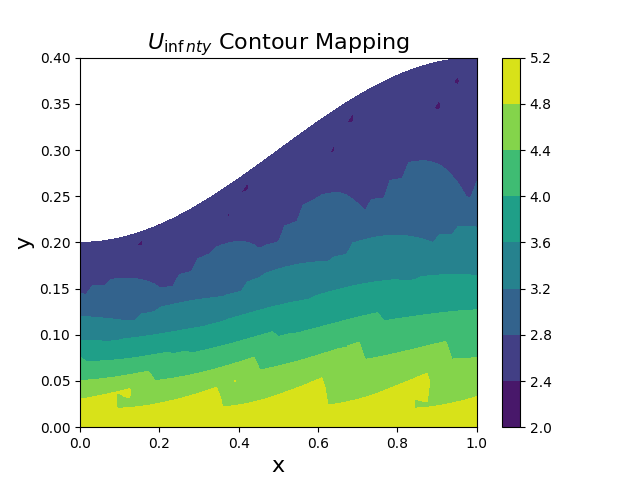
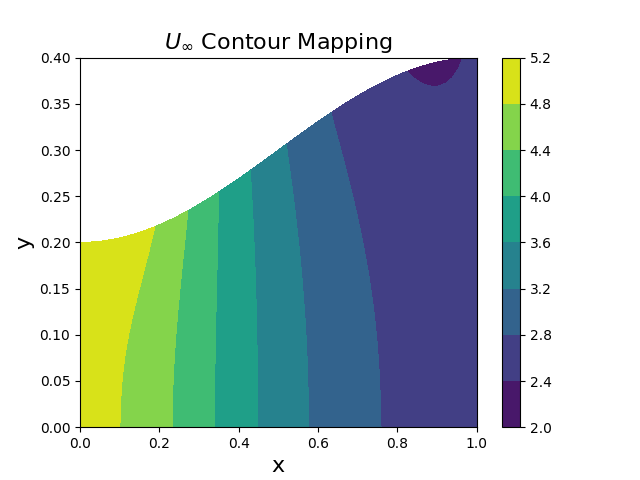
Need to do CD

Changed region(s): [[0.125, 0.2188, 0.75, 0.9062], [0.2188, 0.0625, 0.7188, 0.1875]]

diff --git a/Project1/Project1.py b/Project1/Project1.py
@@ -5,10 +5,41 @@ import math as mp
 import matplotlib.pyplot as plt
 
 def main():
-    N = 2
-    Psi = streamSolver(N)
-    xField, yField, infField = velocityFieldGenerator(Psi, N)
-    contourPlotter(Psi, xField, yField, infField, N)
+    N = [0, 1, 2, 5]
+    Psi = []
+    xField = []
+    yField = []
+    uinfField = []
+    pressCoeff = []
+    tangentVel = []
+    dragCoeff = []
+
+    for i in range(len(N)): 
+        psiTemp = streamSolver(N[i])
+        xFieldTemp, yFieldTemp, uinfFieldTemp = velocityFieldGenerator(psiTemp, N[i])
+        pTemp, tTemp = pressureCoeff(xFieldTemp, yFieldTemp, N[i])
+        dragCoeffTemp = wallDragCoeff(pTemp, N[i])
+
+        # Pull them back out
+        Psi.append(psiTemp)
+        xField.append(xFieldTemp)
+        yField.append(yFieldTemp)
+        uinfField.append(uinfFieldTemp)
+        pressCoeff.append(pTemp)
+        tangentVel.append(tTemp)
+        dragCoeff.append(dragCoeffTemp)
+
+    
+    x = [[np.linspace(0, 1, 17)],[np.linspace(0, 1, 33)],[np.linspace(0, 1, 65)], [np.linspace(0, 1, 513)]]
+    figure = plt.figure()
+    plt.plot(np.transpose(x[0]), tangentVel[0])
+    plt.plot(np.transpose(x[1]), tangentVel[1])
+    plt.plot(np.transpose(x[2]), tangentVel[2])
+    plt.plot(np.transpose(x[3]), tangentVel[3])
+    plt.xlabel('x', fontsize=16)
+    plt.ylabel(r'$u_w$', fontsize=16)
+    plt.title(r'Tangential Wall Velocity ($u_w$)', fontsize=16)
+    plt.savefig('Number3.png')
 
 def streamSolver(ref_index=0):
     """Sets up and solves the stream function system Ax = b
@@ -162,12 +193,13 @@ def velocityFieldGenerator(Psi, ref_index=0):
     dxi = 1 / N / 4
 
     # Our 3 velocity fields
-    xVelField = np.zeros((Neta, Nxi))
-    yVelField = np.zeros((Neta, Nxi))
-    uinfVelField = np.zeros((Neta, Nxi))
+    xVelField = np.zeros((Nxi, Neta))
+    yVelField = np.zeros((Nxi, Neta))
+    uinfVelField = np.zeros((Nxi, Neta))
 
     Psi = np.reshape(Psi, (Nxi, Neta), order='F')
 
+    # x-Velocity Field (only one we actually care about)
     for iY in range(Neta):
         for iX in range(Nxi):
             # Grab the coordinate spaces
@@ -186,81 +218,97 @@ def velocityFieldGenerator(Psi, ref_index=0):
 
             Etaprimey = 1 / h
 
-            # Corner BC's
-            # Bottom left
-            if iY == 0 and iX == 0:
-                xVelField[iY][iX] = secOrderRight(Psi[iX][iY], Psi[iX][iY+1], Psi[iX][iY+2], deta) * Etaprimey
-                yVelField[iY][iX] = -(secOrderRight(Psi[iX][iY], Psi[iX+1][iY], Psi[iX+2][iY], dxi) + \
-                    secOrderRight(Psi[iX][iY], Psi[iX][iY+1], Psi[iX][iY+2], deta) * Etaprimex)
-                continue
-            
-            # Bottom right
-            elif iY == 0 and iX == Nxi-1:
-                xVelField[iY][iX] = secOrderRight(Psi[iX][iY], Psi[iX][iY+1], Psi[iX][iY+2], deta) * Etaprimey
-                yVelField[iY][iX] = -(secOrderLeft(Psi[iX][iY], Psi[iX-1][iY], Psi[iX-2][iY], dxi) +\
-                    secOrderRight(Psi[iX][iY], Psi[iX][iY+1], Psi[iX][iY+2], deta) * Etaprimex)
+            # Corner BC's first
+
+            # Bottom floor
+            if iY == 0:
+                xVelField[iX][iY] = secOrderRight(Psi[iX][iY], Psi[iX][iY+1], Psi[iX][iY+2], deta) * Etaprimey
                 continue
 
-            # Top left
-            elif iY == Neta-1 and iX == 0:
-                xVelField[iY][iX] = secOrderLeft(Psi[iX][iY], Psi[iX][iY-1], Psi[iX][iY-2], deta) * Etaprimey
-                yVelField[iY][iX] = -(secOrderRight(Psi[iX][iY], Psi[iX+1][iY], Psi[iX+2][iY], dxi) + \
-                    secOrderLeft(Psi[iX][iY], Psi[iX][iY-1], Psi[iX][iY-2], deta) * Etaprimex)
+            # Top top floor
+            elif iY == Neta-1:
+                xVelField[iX][iY] = secOrderLeft(Psi[iX][iY], Psi[iX][iY-1], Psi[iX][iY-2], deta) * Etaprimey
                 continue
             
-            # Top right
-            elif iY == Neta-1 and iX == Nxi-1:
-                xVelField[iY][iX] = secOrderLeft(Psi[iX][iY], Psi[iX][iY-1], Psi[iX][iY-2], deta) * Etaprimey
-                yVelField[iY][iX] = -(secOrderLeft(Psi[iX][iY], Psi[iX-1][iY], Psi[iX-2][iY], dxi) + \
-                    secOrderLeft(Psi[iX][iY], Psi[iX][iY-1], Psi[iX][iY-2], deta) * Etaprimex)           
-                continue
+            # Anything else is an interior node
+            xVelField[iX][iY] = centralDiff(Psi[iX][iY+1], Psi[iX][iY-1], deta) * Etaprimey
 
-            # Top/bottom wall BC
-            if iY == 0 or iY == Neta-1:
-                # Corners already done
-                if iX == 0  or iX == Nxi-1:
+    # y-Velocity Field (I guess)
+    for iY in range(Neta):
+        for iX in range(Nxi):
+            # Grab the coordinate spaces
+            Eta = iY * deta
+            Xi = iX * dxi
+
+            # Global coordinates
+            X = Xi
+            h = 0.2 + 0.1 * (1 - mp.cos(mp.pi * X))
+            Y = h * Eta
+            
+            # All of the various derivatives
+            hprime = mp.pi / 10 * mp.sin(mp.pi * X)
+
+            Etaprimex = -Y * hprime / (h ** 2)
+
+            Etaprimey = 1 / h
+
+            # Wall BC's first
+            
+            # Left Wall
+            if iX == 0:
+                if iY == 0:
+                    yVelField[iX][iY] = -(secOrderRight(Psi[iX][iY], Psi[iX+1][iY], Psi[iX+2][iY], dxi) +\
+                        secOrderRight(Psi[iX][iY], Psi[iX][iY+1], Psi[iX][iY+2], deta) * Etaprimex )
                     continue
                 elif iY == Neta-1:
-                    xVelField[iY][iX] = secOrderLeft(Psi[iX][iY], Psi[iX][iY-1], Psi[iX][iY-2], deta) * Etaprimey
-                    yVelField[iY][iX] = -(centralDiff(Psi[iX+1][iY], Psi[iX-1][iY], dxi) +\
-                        secOrderLeft(Psi[iX][iY], Psi[iX][iY-1], Psi[iX][iY-2], deta) * Etaprimex) 
-                    continue
-                elif iY == 0:
-                    xVelField[iY][iX] = secOrderRight(Psi[iX][iY], Psi[iX][iY+1], Psi[iX][iY+2], deta) * Etaprimey
-                    yVelField[iY][iX] = -(centralDiff(Psi[iX+1][iY], Psi[iX-1][iY], dxi) +\
-                        secOrderRight(Psi[iX][iY], Psi[iX][iY+1], Psi[iX][iY+2], deta) * Etaprimex)  
-                    continue
-
-            # Left/right wall BC
-            if iX == 0 or iX == Nxi-1:
-                # Corners already done
-                if iY == 0  or iY == Neta-1:
-                    continue
-                elif iX == Nxi-1:
-                    xVelField[iY][iX] = centralDiff(Psi[iX][iY+1], Psi[iX][iY-1], deta) * Etaprimey
-                    yVelField[iY][iX] = -(secOrderLeft(Psi[iX][iY], Psi[iX-1][iY], Psi[iX-2][iY], dxi)+\
+                    yVelField[iX][iY] = -(secOrderRight(Psi[iX][iY], Psi[iX+1][iY], Psi[iX+2][iY], dxi) +\
+                        secOrderLeft(Psi[iX][iY], Psi[iX][iY-1], Psi[iX][iY-2], deta) * Etaprimex )                    
+                    continue 
+                else:
+                    yVelField[iX][iY] = -(secOrderRight(Psi[iX][iY], Psi[iX+1][iY], Psi[iX+2][iY], dxi) +\
                         centralDiff(Psi[iX][iY+1], Psi[iX][iY-1], deta) * Etaprimex)
                     continue
 
-                elif iX == 0:
-                    xVelField[iY][iX] = centralDiff(Psi[iX][iY+1], Psi[iX][iY-1], deta) * Etaprimey
-                    yVelField[iY][iX] = -(secOrderRight(Psi[iX][iY], Psi[iX+1][iY], Psi[iX+2][iY], dxi)+\
+            # Right Wall
+            elif iX == Nxi-1:
+                if iY == 0:
+                    yVelField[iX][iY] = -(secOrderLeft(Psi[iX][iY], Psi[iX-1][iY], Psi[iX-2][iY], dxi) +\
+                        secOrderRight(Psi[iX][iY], Psi[iX][iY+1], Psi[iX][iY+2], deta) * Etaprimex )
+                    continue
+                elif iY == Neta-1:
+                    yVelField[iX][iY] = -(secOrderLeft(Psi[iX][iY], Psi[iX-1][iY], Psi[iX-2][iY], dxi) +\
+                        secOrderLeft(Psi[iX][iY], Psi[iX][iY-1], Psi[iX][iY-2], deta) * Etaprimex )                    
+                    continue  
+                else:
+                    yVelField[iX][iY] = -(secOrderLeft(Psi[iX][iY], Psi[iX-1][iY], Psi[iX-2][iY], dxi) +\
                         centralDiff(Psi[iX][iY+1], Psi[iX][iY-1], deta) * Etaprimex)
                     continue
 
-            # Anything else is interior node
-            xVelField[iY][iX] = centralDiff(Psi[iX][iY+1], Psi[iX][iY-1], deta) * Etaprimey
-            yVelField[iY][iX] = -(centralDiff(Psi[iX+1][iY], Psi[iX-1][iY], dxi) +\
+            # Top Wall
+            elif iY == Neta-1:
+                yVelField[iX][iY] = -(centralDiff(Psi[iX+1][iY], Psi[iX-1][iY], dxi) +\
+                    secOrderLeft(Psi[iX][iY], Psi[iX][iY-1], Psi[iX][iY-2], deta) * Etaprimex )
+                continue
+
+            # Bottom Wall
+            elif iY == 0:
+                yVelField[iX][iY] = -(centralDiff(Psi[iX+1][iY], Psi[iX-1][iY], dxi) +\
+                    secOrderRight(Psi[iX][iY], Psi[iX][iY+1], Psi[iX][iY+2], deta) * Etaprimex )
+                continue
+
+            # Everything else must be interior node
+            yVelField[iX][iY] = -(centralDiff(Psi[iX+1][iY], Psi[iX-1][iY], dxi) +\
                 centralDiff(Psi[iX][iY+1], Psi[iX][iY-1], deta) * Etaprimex)
+
 
     # Then loop again to make the magnitude velocity field.
     for iY in range(Neta):
         for iX in range(Nxi):
-            uinfVelField[iY][iX] = mp.sqrt(xVelField[iY][iX] ** 2 + yVelField[iY][iX] ** 2)
+            uinfVelField[iX][iY] = mp.sqrt(xVelField[iX][iY] ** 2 + yVelField[iX][iY] ** 2)
 
     return xVelField, yVelField, uinfVelField
 
-def contourPlotter(Psi, xField, yField, infField, ref_index=0):
+def figureGenerator(Psi, xField, yField, uinfField, ref_index=0):
     """Draws a picutres of the grid (Tron fans rejoice!) & associated contours.
 
     Extended Summary
@@ -315,7 +363,7 @@ def contourPlotter(Psi, xField, yField, infField, ref_index=0):
     Psi = np.reshape(Psi, (Nxi, Neta), order='F')
     xField = np.reshape(xField, (Nxi, Neta), order='F')
     yField = np.reshape(yField, (Nxi, Neta), order='F')
-    infField = np.reshape(infField, (Nxi, Neta), order='F')
+    infField = np.reshape(uinfField, (Nxi, Neta), order='F')
 
     figure.clear()
     plt.contourf(X, Y, np.transpose(Psi), 20)
@@ -356,6 +404,97 @@ def contourPlotter(Psi, xField, yField, infField, ref_index=0):
     # plt.plot(X,Y,'-',color='red')
     # plt.plot(X.transpose(),Y.transpose(),'-',color='red')
     plt.savefig('Uinf.png')
+
+def pressureCoeff(xField, yField, ref_index=0):
+    """Generates the pressure coefficient for tangential along the top wall of the diffuser.
+
+    Parameters
+    ----------
+    xField : np.array type float
+        The x-velocities at each point in the domain
+
+    ref_index : int, optional
+        Refinement index, increases the size of grid by powers of 2, by default 0
+    Returns
+    -------
+    c_p : np.array type float
+        Array of pressure coefficients along the top wall
+    
+    uTangent : np.array type float
+        Tangential velocity along the top wall
+    """
+    N = 2**(2+ref_index)
+    Nxi = (4*N + 1) # Number of grid points in xi-direction
+    Neta = (N + 1) # Number of grid points in eta-direction
+
+    deta = 1 / N
+    dxi = 1 / N / 4
+
+    c_p = np.zeros((Nxi, 1))
+    uTangent = np.zeros((Nxi, 1))
+
+    for iX in range(Nxi):
+        # Reference space -> Global space
+        Xi = iX * dxi
+        X = Xi
+
+        # Slope at each point forming a [1, h'] tangent vector
+        hprime = mp.pi / 10 * mp.sin(mp.pi * X)
+        # Normalize the tanget vector into being a unit tangent
+        magnitude = mp.sqrt(1 + hprime ** 2)
+        tangentVec = np.array([1 / magnitude, hprime/magnitude])
+
+        # Velocity vector [u, v]
+        velocityVec = np.array([xField[iX][Neta-1], yField[iX][Neta-1]])
+
+        # Tangent via dot producting
+        uTangent[iX] = np.dot(tangentVec, velocityVec)
+
+        c_p[iX] = 1 - (uTangent[iX] / xField[1][1]) ** 2
+    return [c_p, uTangent]
+
+def wallDragCoeff(pressure, ref_index=0):
+    """Integrates over the pressure coefficient to find the drag along diffuser wall.
+
+    Parameters
+    ----------
+    pressure : np.array type float
+        Pressure coefficients (c_p) along the top wall of the diffuser
+    ref_index : int, optional
+        Refinement index, by default 0
+
+    Returns
+    -------
+    C_D : float
+        Total drag coefficient for the diffuser
+    """
+    N = 2**(2+ref_index)
+    Nxi = (4*N + 1) # Number of grid points in xi-direction
+    Neta = (N + 1) # Number of grid points in eta-direction
+
+    deta = 1 / N
+    dxi = 1 / N / 4
+
+    CD = 0
+
+    # Trapezoidal Integration
+    for iX in range(Nxi-1):
+        # Grab the coordinate spaces
+        Xi = iX * dxi
+
+        # Global coordinates
+        X = Xi
+        h = 0.2 + 0.1 * (1 - mp.cos(mp.pi * X))
+        Y = h
+        
+        # All of the various derivatives
+        hprime = mp.pi / 10 * mp.sin(mp.pi * X)
+
+        Etaprimex = -Y * hprime / (h ** 2)
+
+        CD =+ (pressure[iX] + pressure[iX+1]) / 2 * dxi * Etaprimex
+
+    return CD
 
 def centralDiff(uplus, uminus, delta):
     """Returns the central difference at a point
@@ -414,6 +553,7 @@ def secOrderRight(ought, uplus1, uplus2, delta):
         du/d(delta) at that point
     """
     return (-3*ought + 4*uplus1 - uplus2) / (2*delta)
+
 
 if __name__ == "__main__":
     main()
